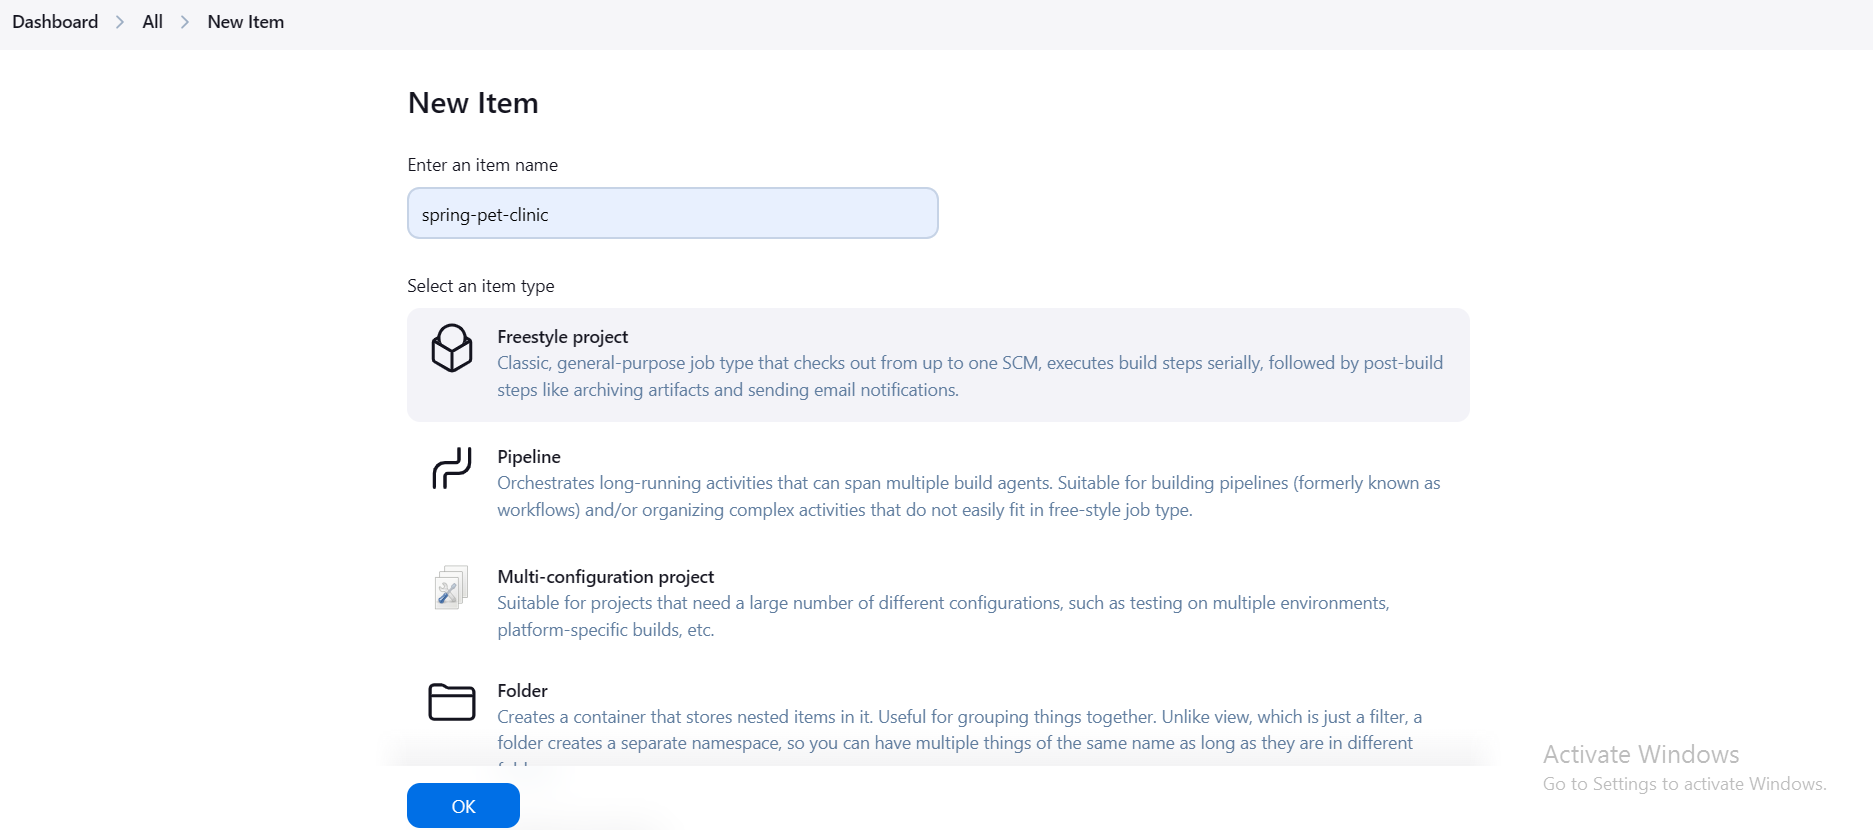
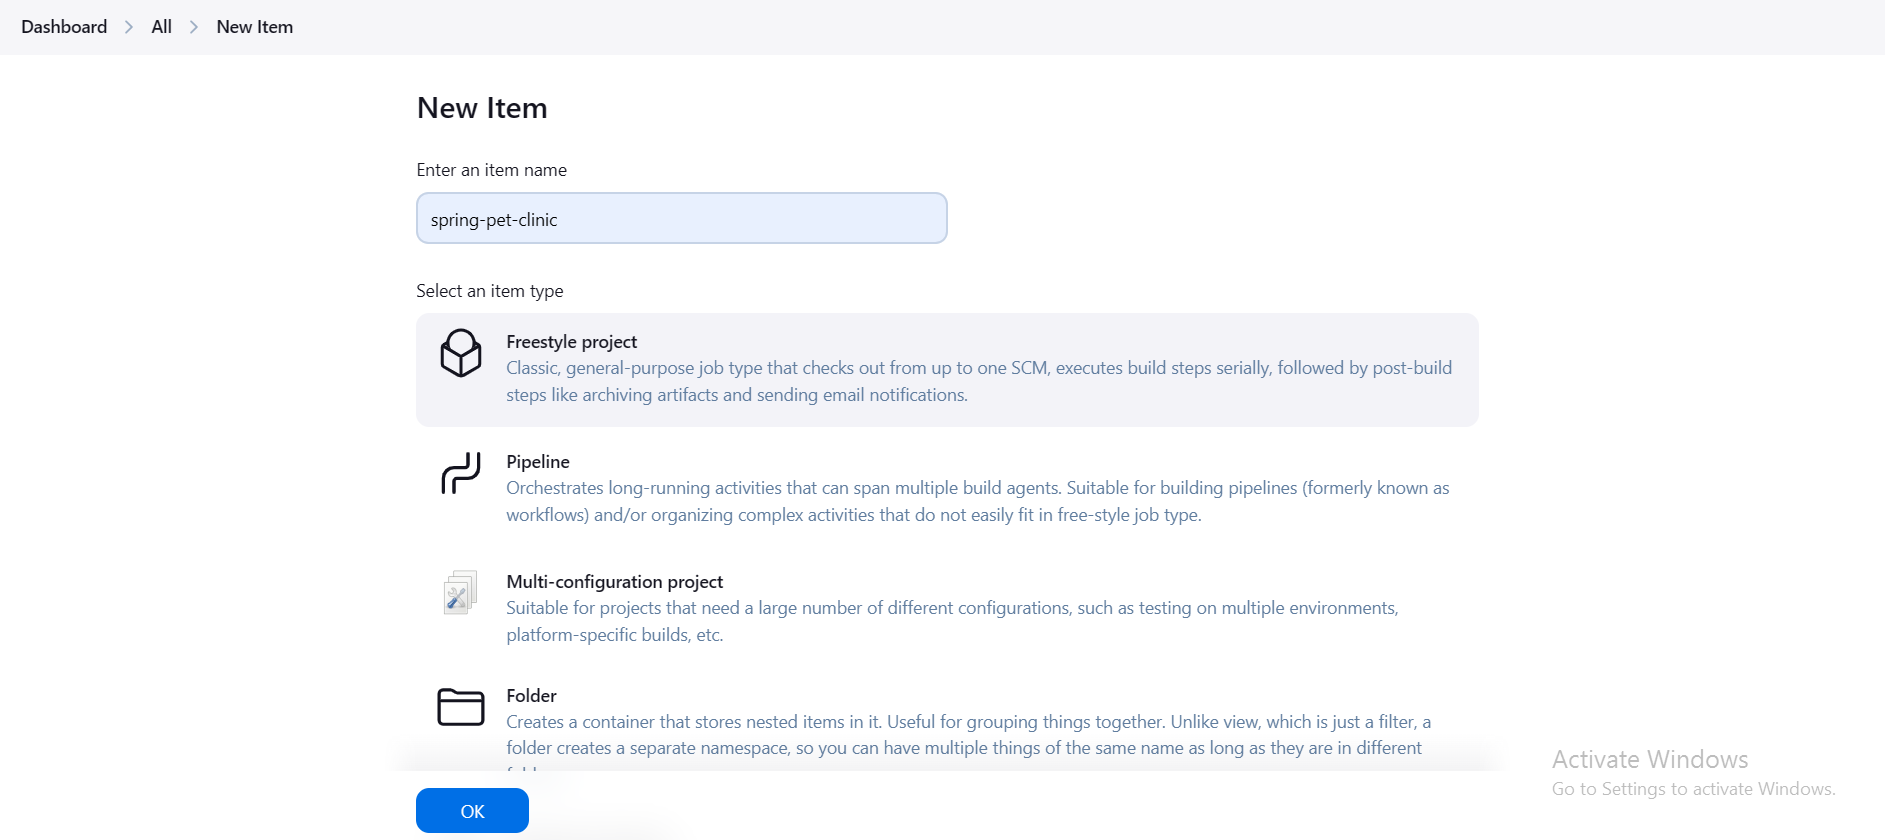
Images added

diff --git a/Project/Spring-pet-clinic/spc.md b/Project/Spring-pet-clinic/spc.md
@@ -1,0 +1,95 @@
+# Creating Your First Freestyle Project in Jenkins
+
+Follow this step-by-step guide to create and configure your first Freestyle project in Jenkins.
+
+---
+
+## **Step 1: Access Jenkins Dashboard**
+1. Open your Jenkins URL in a web browser (e.g., `http://<your_server_ip>:8080`).
+2. Log in with your credentials.
+
+---
+
+## **Step 2: Create a New Job**
+1. Click on the **"New Item"** link in the Jenkins dashboard.
+2. Enter a name for your project (e.g., `MyFirstFreestyleProject`).
+3. Select the **"Freestyle project"** option.
+4. Click **OK**.
+
+    ![Preview](./Images/Img1.PNG)
+---
+
+## **Step 3: Configure the Project**
+### **General Settings**
+- Add a description for your project (optional).
+  ```
+  This is my first freestyle project in Jenkins.
+  ```
+
+  ![Preview](./Images/Img2.PNG)
+
+### **Source Code Management (SCM)**
+- If your project uses source control (e.g., Git):
+  1. Select **Git** under SCM.
+  2. Enter the repository URL.
+  3. Provide credentials (if required).
+
+  ![Preview](./Images/Img3.PNG)
+
+Example: I have taken a spring pet clinic application [github](https://github.com/PrachiVpatil96/spring-petclinic.git)
+```plaintext
+Repository URL: https://github.com/PrachiVpatil96/spring-petclinic.git
+Branch: master
+```
+### **Build Triggers**
+- Choose how you want to trigger builds:
+  - **Build periodically**: Use a cron schedule (e.g., `H/5 * * * *` to run every 5 minutes).
+  - **Poll SCM**: Check for changes in the repository (e.g., `H/5 * * * *`).
+  - **Trigger builds remotely**: Use a webhook or an external trigger.
+
+### **Build Environment**
+- Check options like "Delete workspace before build starts" or "Use secret text(s) or file(s)", if needed.
+
+### **Build Step**
+- Add build steps based on your project requirements. For example:
+  - **Execute Shell**: Run a shell script.
+    ```bash
+    echo "Building the project..."
+    ./build.sh
+    ```
+     ![Preview](./Images/Img4.PNG)
+
+  - **Invoke Ant** or **Invoke Gradle Script** if your project uses those build tools.
+
+  ### **Post-build Actions**
+- Add actions to take after the build completes:
+  - **Archive the artifacts**: Save files like binaries or reports.
+    ```
+    Files to archive: target/*.jar
+    ```
+  - **Email Notifications**: Configure email notifications for build results.
+  - **Publish JUnit test result report**: Add test result files.
+
+---
+
+## **Step 4: Save and Build**
+1. Click **Save** to store your configuration.
+2. Click **Build Now** to trigger your first build.
+
+  ![Preview](./Images/Img5.PNG)
+
+---
+
+## **Step 5: Monitor the Build**
+1. Go to the **Build History** section in the left panel.
+2. Click on the build number (e.g., `#1`) to view the build details.
+3. Check the **Console Output** to see logs and verify the success of the build.
+
+---
+
+## **Optional: View and Manage Artifacts**
+- If you archived artifacts in the Post-build Actions, you can view/download them from the build's page under the **Artifacts** section.
+
+---
+
+Congratulations! You've successfully created and run your first Freestyle project in Jenkins! 
